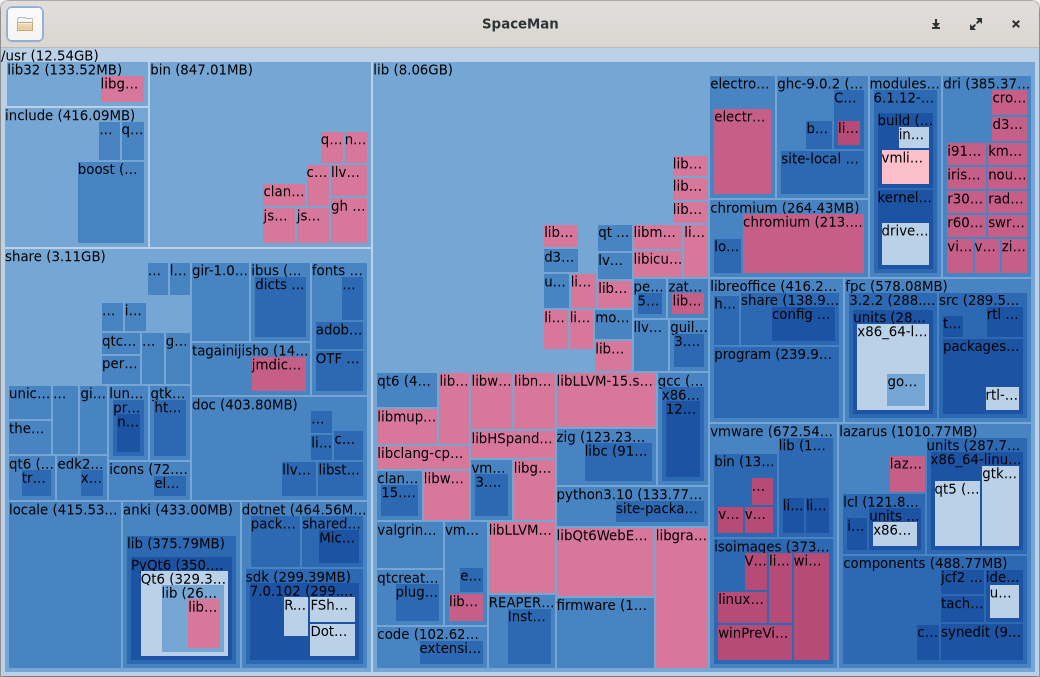
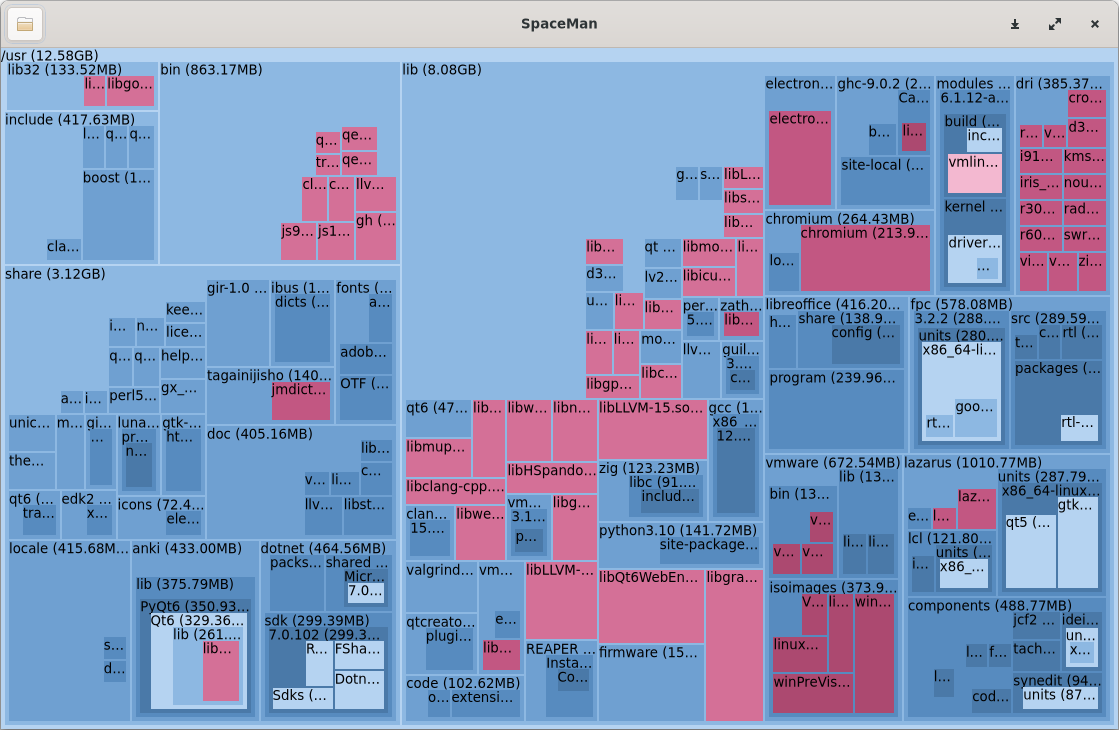
More readable color scheme, based on the HSL color-space

diff --git a/src/gui/treemap_widget/imp/node_color.rs b/src/gui/treemap_widget/imp/node_color.rs
@@ -1,28 +1,88 @@
 use gtk::gdk::RGBA;
 use once_cell::sync::Lazy;
+use std::f32::consts::PI;
 
 // https://www.schemecolor.com/light-to-dark-blue.php
-// light blue #bcd2e8
-const DIR_R: f32 = 0xbc as f32 / 256.0;
-const DIR_G: f32 = 0xd2 as f32 / 256.0;
-const DIR_B: f32 = 0xe8 as f32 / 256.0;
-const DIR_A: f32 = 0xff as f32 / 256.0;
+// light blue #b6d4f2
+const DIR_R: f32 = 0xb6 as f32 / 256.0;
+const DIR_G: f32 = 0xd4 as f32 / 256.0;
+const DIR_B: f32 = 0xf2 as f32 / 256.0;
 
-// bisque color #ffc0cb
-const FILE_R: f32 = 0xff as f32 / 256.0;
-const FILE_G: f32 = 0xc0 as f32 / 256.0;
-const FILE_B: f32 = 0xcb as f32 / 256.0;
-const FILE_A: f32 = 0xff as f32 / 256.0;
+// pink color #f4b9d1
+const FILE_R: f32 = 0xf4 as f32 / 256.0;
+const FILE_G: f32 = 0xb9 as f32 / 256.0;
+const FILE_B: f32 = 0xd1 as f32 / 256.0;
+
+struct HSL {
+    hue: f32,
+    saturation: f32,
+    lightness: f32,
+}
+
+// https://www.had2know.org/technology/hsl-rgb-color-converter.html
+impl HSL {
+    fn new(color: (f32, f32, f32)) -> Self {
+        let (r, g, b) = color;
+        let max = r.max(g.max(b));
+        let min = r.min(g.min(b));
+        let d = max - min;
+        let lightness = (max + min) / 2.0;
+        let hue = if g >= b {
+            ((r - g / 2.0 - b / 2.0) / ((r * r + g * g + b * b - r * g - r * b - g * b).sqrt()))
+                .acos()
+        } else {
+            2.0 * PI
+                - ((r - g / 2.0 - b / 2.0)
+                    / ((r * r + g * g + b * b - r * g - r * b - g * b).sqrt()))
+                .acos()
+        };
+        let saturation = d / (1.0 - (2.0 * lightness - 1.0).abs());
+        HSL {
+            hue,
+            saturation,
+            lightness,
+        }
+    }
+    fn to_rgb(&self) -> (f32, f32, f32) {
+        let d = self.saturation * (1.0 - (2.0 * self.lightness - 1.0).abs());
+        let m = self.lightness - d / 2.0;
+        let x = d * (1.0 - (self.hue / (PI / 3.0) % 2.0 - 1.0).abs());
+        const RAD_60: f32 = PI / 3.0;
+        const RAD_120: f32 = PI * (2.0 / 3.0);
+        const RAD_180: f32 = PI;
+        const RAD_240: f32 = PI + PI / 3.0;
+        const RAD_300: f32 = PI + PI * (2.0 / 3.0);
+        const RAD_360: f32 = 2.0 * PI;
+        if self.hue < RAD_60 {
+            (d + m, x + m, m)
+        } else if self.hue >= RAD_60 && self.hue < RAD_120 {
+            (x + m, d + m, m)
+        } else if self.hue >= RAD_120 && self.hue < RAD_180 {
+            (m, d + m, x + m)
+        } else if self.hue >= RAD_180 && self.hue < RAD_240 {
+            (m, x + m, d + m)
+        } else if self.hue >= RAD_240 && self.hue < RAD_300 {
+            (x + m, m, d + m)
+        } else if self.hue >= RAD_300 && self.hue <= RAD_360 {
+            (d + m, m, x + m)
+        } else {
+            unreachable!()
+        }
+    }
+}
+
+fn darken(ratio: f32, color: (f32, f32, f32)) -> (f32, f32, f32) {
+    let mut hsl = HSL::new(color);
+    hsl.lightness *= ratio;
+    hsl.saturation *= ratio;
+    hsl.to_rgb()
+}
 
 static DIR: Lazy<[RGBA; 5]> = Lazy::new(|| {
     (0..5)
         .map(|depth| {
-            RGBA::new(
-                DIR_R * (1.1 * DIR_R * 0.77).powi(depth as i32),
-                DIR_G * (1.1 * DIR_G * 0.88).powi(depth as i32),
-                DIR_B * (1.1 * DIR_B * 0.92).powi(depth as i32),
-                DIR_A,
-            )
+            let color = darken(0.87_f32.powi(depth as i32), (DIR_R, DIR_G, DIR_B));
+            RGBA::new(color.0, color.1, color.2, 1.0)
         })
         .collect::<Vec<RGBA>>()
         .try_into()
@@ -32,12 +92,8 @@ static DIR: Lazy<[RGBA; 5]> = Lazy::new(|| {
 static FILE: Lazy<[RGBA; 5]> = Lazy::new(|| {
     (0..5)
         .map(|depth| {
-            RGBA::new(
-                FILE_R * (1.2 * FILE_R * 0.77).powi(depth as i32),
-                FILE_G * (1.2 * FILE_G * 0.88).powi(depth as i32),
-                FILE_B * (1.2 * FILE_B * 0.92).powi(depth as i32),
-                FILE_A,
-            )
+            let color = darken(0.87_f32.powi(depth as i32), (FILE_R, FILE_G, FILE_B));
+            RGBA::new(color.0, color.1, color.2, 1.0)
         })
         .collect::<Vec<RGBA>>()
         .try_into()
